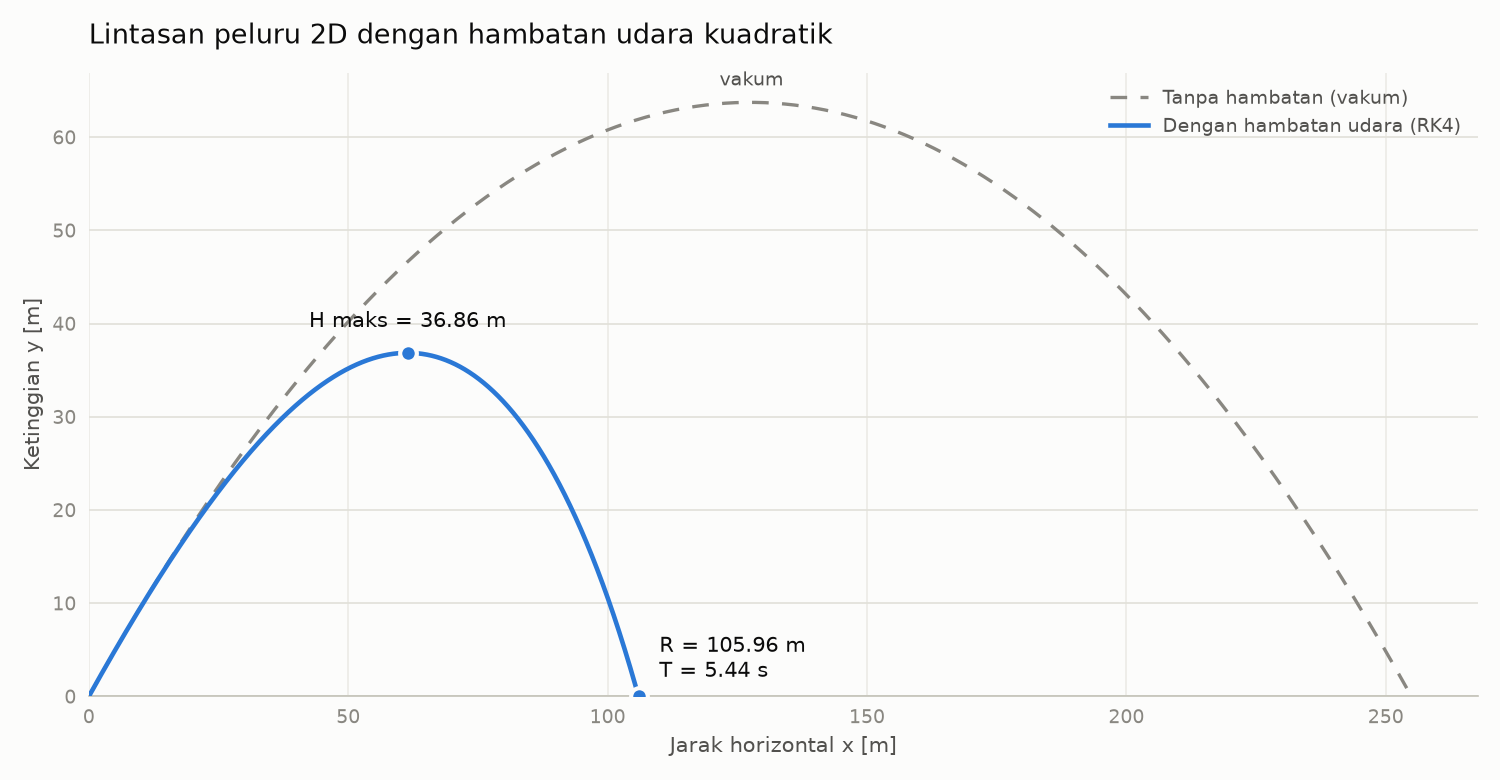
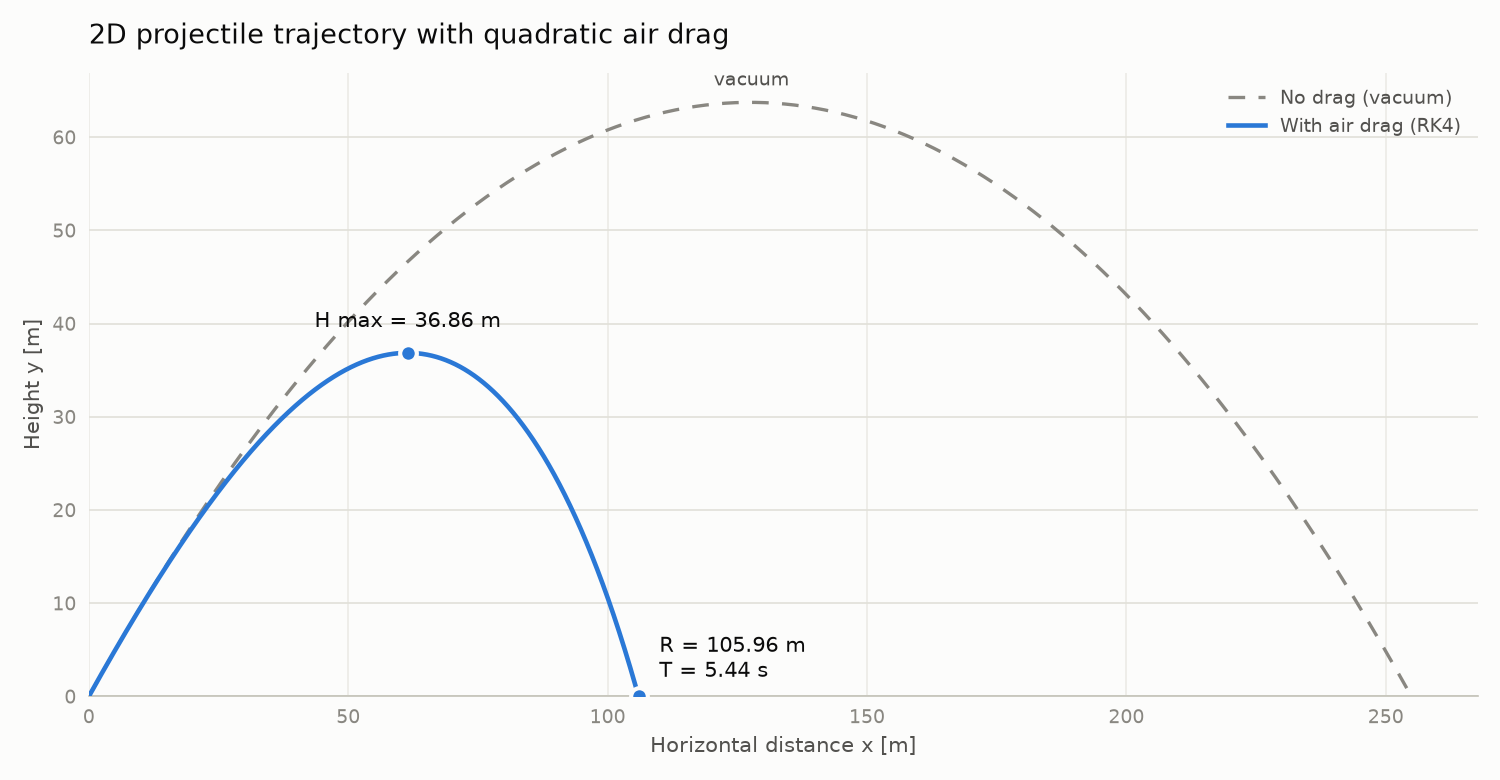
Translate code, console output, and figure to English
- Fortran comments, error messages, and console output in English
- Verification output uses the V1 to V3 names from the README
- Plot script labels, help text, and messages in English
- Regenerate results/trajectory.png with English labels
- Translate .gitignore comments
- README points to the renamed DEFAULT PARAMETERS block

Numerical output is unchanged.

diff --git a/scripts/plot_trajectory.py b/scripts/plot_trajectory.py
@@ -1,11 +1,11 @@
 #!/usr/bin/env python3
-"""Visualisasi lintasan peluru dari results/trajectory.csv.
+"""Plot the projectile trajectory from results/trajectory.csv.
 
-Membaca keluaran program Fortran (kolom t, x, y, vx, vy), lalu menggambar
-lintasan dengan hambatan udara beserta lintasan vakum sebagai pembanding.
-Grafik disimpan ke results/trajectory.png.
+Reads the output of the Fortran program (columns t, x, y, vx, vy) and draws
+the trajectory with air drag together with the vacuum trajectory for
+comparison. The figure is saved to results/trajectory.png.
 
-Pemakaian (dari folder mana pun):
+Usage (from any folder):
     python scripts/plot_trajectory.py
     python scripts/plot_trajectory.py --input results/trajectory.csv \
         --output results/trajectory.png --no-vacuum
@@ -19,7 +19,7 @@ from pathlib import Path
 
 import matplotlib
 
-matplotlib.use("Agg")  # backend tanpa jendela, aman untuk terminal/CI
+matplotlib.use("Agg")  # non-interactive backend, safe for terminals and CI
 
 import matplotlib.pyplot as plt  # noqa: E402
 import numpy as np  # noqa: E402
@@ -29,12 +29,12 @@ ROOT = Path(__file__).resolve().parent.parent
 DEFAULT_INPUT = ROOT / "results" / "trajectory.csv"
 DEFAULT_OUTPUT = ROOT / "results" / "trajectory.png"
 
-# Samakan dengan nilai g pada src/ballistics.f90
+# Keep in sync with the value of g in src/ballistics.f90
 G = 9.80665  # m/s^2
 
-# Palet
-COLOR_DRAG = "#2a78d6"     # lintasan dengan hambatan udara
-COLOR_VACUUM = "#898781"   # lintasan vakum (acuan)
+# Palette
+COLOR_DRAG = "#2a78d6"     # trajectory with air drag
+COLOR_VACUUM = "#898781"   # vacuum trajectory (reference)
 INK_PRIMARY = "#0b0b0b"
 INK_SECONDARY = "#52514e"
 INK_MUTED = "#898781"
@@ -44,32 +44,32 @@ SURFACE = "#fcfcfb"
 
 
 def parse_args() -> argparse.Namespace:
-    parser = argparse.ArgumentParser(description="Plot lintasan peluru 2D.")
+    parser = argparse.ArgumentParser(description="Plot a 2D projectile trajectory.")
     parser.add_argument("--input", type=Path, default=DEFAULT_INPUT,
-                        help="berkas CSV lintasan (bawaan: results/trajectory.csv)")
+                        help="trajectory CSV file (default: results/trajectory.csv)")
     parser.add_argument("--output", type=Path, default=DEFAULT_OUTPUT,
-                        help="berkas PNG keluaran (bawaan: results/trajectory.png)")
+                        help="output PNG file (default: results/trajectory.png)")
     parser.add_argument("--no-vacuum", action="store_true",
-                        help="jangan gambar lintasan vakum pembanding")
-    parser.add_argument("--dpi", type=int, default=150, help="resolusi PNG")
+                        help="do not draw the vacuum comparison trajectory")
+    parser.add_argument("--dpi", type=int, default=150, help="PNG resolution")
     return parser.parse_args()
 
 
 def load_trajectory(path: Path) -> pd.DataFrame:
     if not path.is_file():
-        sys.exit(f"Berkas tidak ditemukan: {path}\n"
-                 "Jalankan simulasi Fortran terlebih dahulu (./ballistics).")
+        sys.exit(f"File not found: {path}\n"
+                 "Run the Fortran simulation first (./ballistics).")
     df = pd.read_csv(path, skipinitialspace=True)
     missing = {"t", "x", "y", "vx", "vy"} - set(df.columns)
     if missing:
-        sys.exit(f"Kolom hilang di {path}: {', '.join(sorted(missing))}")
+        sys.exit(f"Missing columns in {path}: {', '.join(sorted(missing))}")
     if len(df) < 2:
-        sys.exit(f"Data lintasan terlalu sedikit di {path}")
+        sys.exit(f"Not enough trajectory data in {path}")
     return df
 
 
 def vacuum_trajectory(vx0: float, vy0: float, y0: float, n: int = 400):
-    """Parabola vakum dari kondisi awal yang sama, hingga y = 0."""
+    """Vacuum parabola from the same initial conditions, down to y = 0."""
     t_flight = (vy0 + np.sqrt(vy0**2 + 2.0 * G * y0)) / G
     t = np.linspace(0.0, t_flight, n)
     return vx0 * t, y0 + vy0 * t - 0.5 * G * t**2
@@ -100,18 +100,18 @@ def main() -> None:
     if not args.no_vacuum:
         xv, yv = vacuum_trajectory(df["vx"].iloc[0], df["vy"].iloc[0], y[0])
         ax.plot(xv, yv, color=COLOR_VACUUM, linewidth=1.6, linestyle=(0, (5, 4)),
-                label="Tanpa hambatan (vakum)", zorder=2)
-        ax.annotate("vakum", xy=(xv[len(xv) // 2], yv.max()),
+                label="No drag (vacuum)", zorder=2)
+        ax.annotate("vacuum", xy=(xv[len(xv) // 2], yv.max()),
                     xytext=(0, 6), textcoords="offset points",
                     ha="center", va="bottom", fontsize=9, color=INK_SECONDARY)
 
     ax.plot(x, y, color=COLOR_DRAG, linewidth=2.2,
-            label="Dengan hambatan udara (RK4)", zorder=3)
+            label="With air drag (RK4)", zorder=3)
 
-    # Titik puncak dan titik tumbukan, dengan cincin warna permukaan
+    # Apex and impact point, with a ring in the surface color
     ax.scatter([x[i_apex], x_range], [h_max, y[-1]], s=64, color=COLOR_DRAG,
                edgecolors=SURFACE, linewidths=2, zorder=4)
-    ax.annotate(f"H maks = {h_max:.2f} m", xy=(x[i_apex], h_max),
+    ax.annotate(f"H max = {h_max:.2f} m", xy=(x[i_apex], h_max),
                 xytext=(0, 10), textcoords="offset points",
                 ha="center", va="bottom", fontsize=10, color=INK_PRIMARY)
     ax.annotate(f"R = {x_range:.2f} m\nT = {t_flight:.2f} s", xy=(x_range, 0),
@@ -121,9 +121,9 @@ def main() -> None:
     ax.set_xlim(left=0)
     ax.set_ylim(bottom=0)
     ax.margins(x=0.04, y=0.18)
-    ax.set_xlabel("Jarak horizontal x [m]", color=INK_SECONDARY, fontsize=10)
-    ax.set_ylabel("Ketinggian y [m]", color=INK_SECONDARY, fontsize=10)
-    ax.set_title("Lintasan peluru 2D dengan hambatan udara kuadratik",
+    ax.set_xlabel("Horizontal distance x [m]", color=INK_SECONDARY, fontsize=10)
+    ax.set_ylabel("Height y [m]", color=INK_SECONDARY, fontsize=10)
+    ax.set_title("2D projectile trajectory with quadratic air drag",
                  loc="left", fontsize=13, color=INK_PRIMARY, pad=14)
 
     legend = ax.legend(loc="upper right", frameon=False, fontsize=9)
@@ -135,7 +135,7 @@ def main() -> None:
     fig.savefig(args.output, dpi=args.dpi, facecolor=SURFACE)
     plt.close(fig)
 
-    print(f"Grafik disimpan ke {args.output}")
+    print(f"Figure saved to {args.output}")
     print(f"  R = {x_range:.4f} m | H = {h_max:.4f} m | T = {t_flight:.4f} s")
 
 

diff --git a/README.md b/README.md
@@ -304,7 +304,7 @@ fortran-ballistics-sim/
 
 Run all commands from the project root, because the program writes to
 `results/trajectory.csv`. In PowerShell or cmd, replace `./ballistics` with
-`.\ballistics.exe`. The console output of the program is in Indonesian.
+`.\ballistics.exe`.
 
 ```bash
 gfortran -Wall -Wextra -Wimplicit-interface -fcheck=all -O2 src/ballistics.f90 -o ballistics
@@ -333,7 +333,7 @@ for the default parameters).
 ### E. Changing Parameters
 
 All parameters in Table I are fields of type `sim_params` near the top of
-`src/ballistics.f90`, in the block marked `PARAMETER AWAL`. Edit the values and
+`src/ballistics.f90`, in the block marked `DEFAULT PARAMETERS`. Edit the values and
 recompile. If `g` is changed, also update the constant `G` in
 `scripts/plot_trajectory.py` so that the vacuum curve in Fig. 1 stays correct. The
 vacuum comparison (7) holds only for $y_0 = 0$, so the program prints it only in that
